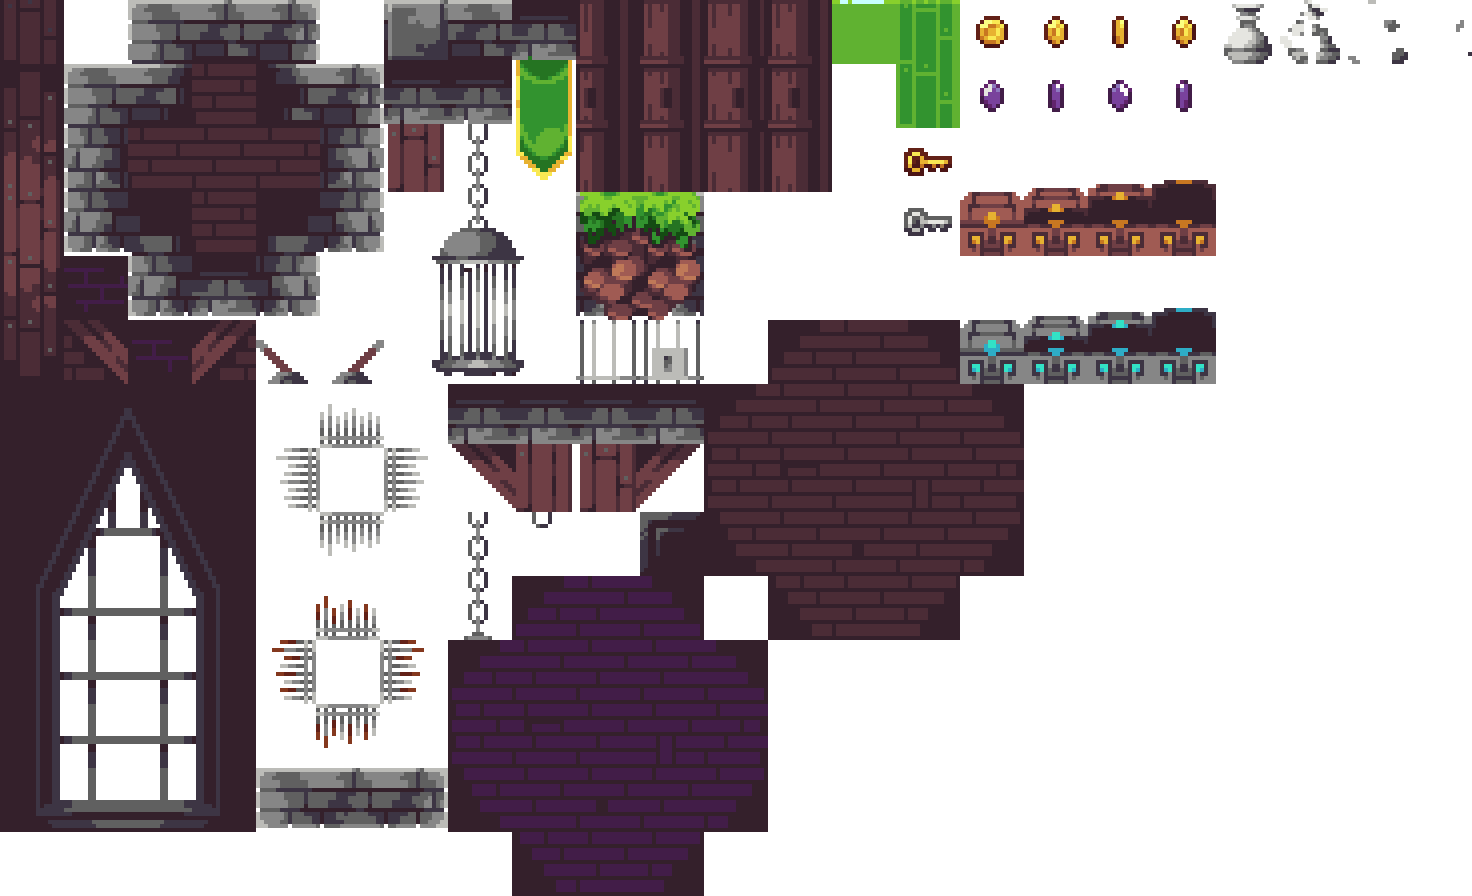
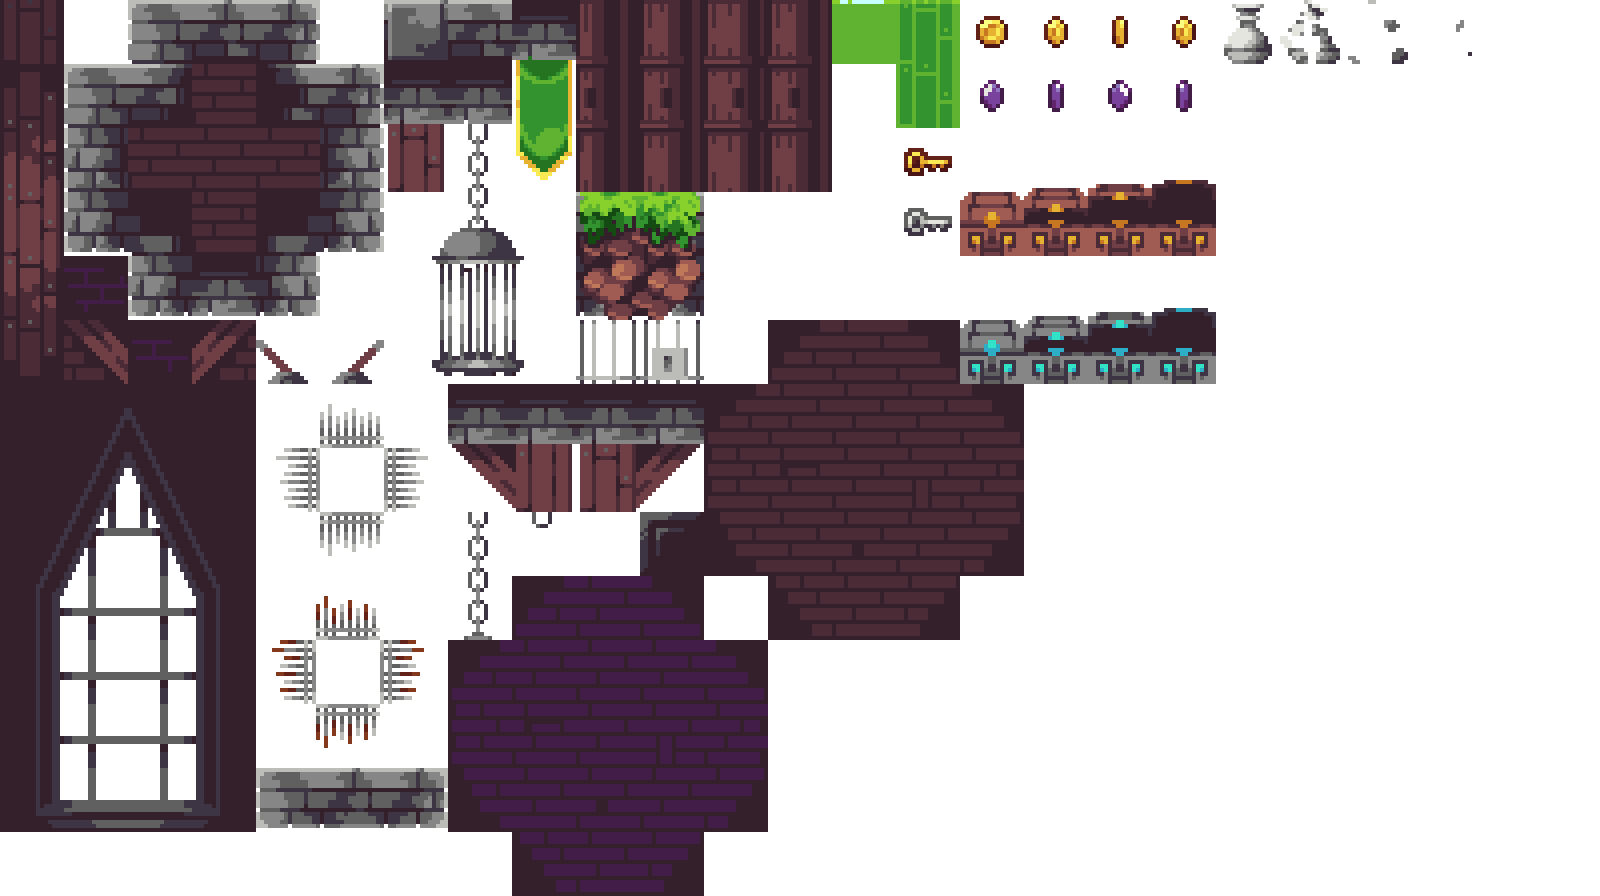
Added spritesheet to level editor Added basic scrolling Need to implement scrolling on level editor

Changed region(s): [[0.0, 0.0, 0.9062, 1.0], [0.5938, 0.3438, 0.8438, 0.7188]]

diff --git a/PythonFiles/level_editor.py b/PythonFiles/level_editor.py
@@ -1,6 +1,13 @@
 from level import *
 
 
+def draw_text(text, font, colour, surface, x, y):
+    text = font.render(text, 1, colour)
+    textrect = text.get_rect()
+    textrect.topleft = (x, y)
+    surface.blit(text, textrect)
+
+
 def hover_tile():  # when a grid tile is hovered it is highlighted
     mouse = pygame.mouse.get_pos()
     if mouse[0] < level_width and mouse[1] < level_height:
@@ -38,33 +45,36 @@ def write_to_file(x, y, selected):
         file.writelines(linelist)
     file.close()
 
-def draw_tile_list():  # draw the list of tile types
+
+def draw_tile_list(xstart, ystart, width):  # draw the list of tile types
+    listbackground = pygame.Rect(level_width, 0, screen_width-level_width, screen_height)
+    pygame.draw.rect(screen, (0, 100, 0), listbackground)
     tile_list = []
-    posx = level_width + tile_size * 2
-    posy = tile_size
+    posx = xstart
+    posy = ystart
     count = 0
-    for id in blockID:
-        img = pygame.transform.scale(pygame.image.load(blockID.get(id)), (tile_size, tile_size))
+    for id in sprites1_dict:
+        img = sprites1_dict[id]
         img_rect = img.get_rect()
         img_rect.x = posx
         img_rect.y = posy
         tile = (img, img_rect, id)
         tile_list.append(tile)
-        if count >= 3:
+        if count >= width:
             count = 0
-            posx = level_width + tile_size * 2
-            posy += tile_size * 2
+            posx = xstart
+            posy += tile_size
         else:
-            posx += tile_size * 2
+            posx += tile_size
             count += 1
     for tile in tile_list:
         screen.blit(tile[0], tile[1])
     return tile_list
 
 
-
 pygame.init()
-res = (1400, 900)
+res = (1750, 900)
+offset = 0
 screen = pygame.display.set_mode(res)
 screen_width = screen.get_width()
 screen_height = screen.get_height()
@@ -73,20 +83,24 @@ level_height = 800
 pygame.display.set_caption("Platform game editor")
 background = pygame.image.load("../Images/Backgrounds/background_forest.jpg")
 selected_block = None
-
 data = "../LevelTileMaps/level1a"
 running = True
+grid = False
 edit_level = Level(read_level_data(data))
 while running:
     click = False
     rclick = False
     mx, my = pygame.mouse.get_pos()
-    screen.fill((60, 25, 60))
+    screen.fill((0, 100, 0))
     screen.blit(background, (0, 0))
-    edit_level.draw()
-    draw_grid()
+    if grid:
+        draw_grid()
+    edit_level.draw(0)
+    t_list1 = draw_tile_list(level_width + tile_size, tile_size, 24)
     hover_tile()
-    t_list = draw_tile_list()
+    grid_button = pygame.Rect(tile_size, screen_height-30-button_height, button_width, button_height)
+    pygame.draw.rect(screen, (0, 70, 0), grid_button, border_radius=10)
+    left, middle, right = pygame.mouse.get_pressed(num_buttons=3)
 
     for event in pygame.event.get():
         if event.type == pygame.QUIT:
@@ -94,26 +108,43 @@ while running:
         if event.type == pygame.MOUSEBUTTONDOWN:
             if event.button == 1:
                 click = True
-            if event.button == 3:
-                rclick = True
+        if event.type == pygame.KEYDOWN:
+            if event.key == pygame.K_d:
+                offset += 1
+                print(offset)
+            if event.key == pygame.K_a:
+                if offset != 0:
+                    offset -= 1
+                print(offset)
+
+    if grid_button.collidepoint((mx, my)):  # toggle grid
+        pygame.draw.rect(screen, (0, 100, 0), grid_button, border_radius=10)
+        if click:
+            if grid:
+                grid = False
+            else:
+                grid = True
+    draw_text("Toggle grid", button_font, (255, 255, 255), screen, tile_size+button_height//2, screen_height-button_height-20)
 
     if selected_block is not None:  # shows selected block in tile list
+        draw_text("Selected block ID: "+str(selected_block[2]), button_font, (255, 255, 255), screen, screen_width-500,
+                  screen_height - button_height - 20)
         pygame.draw.rect(screen, (0, 255, 255), selected_block[1], width=2)
         if mx < level_width and my < level_height:
-            if click:
+            if left:
                 change_tile(mx, my, True, selected_block[2])
                 edit_level = Level(read_level_data(data))
-            if rclick:
+            if right:
                 change_tile(mx, my, False, selected_block[2])
                 edit_level = Level(read_level_data(data))
-    for tile in t_list:  # changes selected block in tile list when clicked
-        if tile[1].collidepoint((mx, my)):
-            pygame.draw.rect(screen, (0, 255, 0), tile[1], width=2)
+    for t in t_list1:  # changes selected block in tile list when clicked
+        if t[1].collidepoint((mx, my)):
+            pygame.draw.rect(screen, (0, 255, 0), t[1], width=2)
             if click:
-                selected_block = tile
-
-
+                selected_block = t
     pygame.display.update()
     clock.tick(60)
+
+
 
 pygame.quit()

diff --git a/PythonFiles/settings.py b/PythonFiles/settings.py
@@ -1,32 +1,5 @@
 import pygame
-
-
-pygame.init()
-title_font = pygame.font.SysFont("Calibri", 60)
-button_font = pygame.font.SysFont("Calibri", 20)
-res = (1200, 800)
-screen = pygame.display.set_mode(res)
-screen_width = screen.get_width()
-screen_height = screen.get_height()
-ui_width = screen_width
-ui_height = 120
-char_width = 60
-char_height = 80
-tile_size = 20
-animation_cooldown = 5
-button_width = 200
-button_height = 50
-blockID = {2: "../Images/Blocks/grass_block_mid.png", 3: "../Images/Blocks/grass_block_left.png",
-           4: "../Images/Blocks/grass_block_right.png", 5: "../Images/Blocks/dirt_block_midmid.png",
-           6: "../Images/Blocks/dirt_block_midleft.png", 7: "../Images/Blocks/dirt_block_midright.png",
-           8: "../Images/Blocks/dirt_block_botmid.png", 9: "../Images/Blocks/dirt_block_botleft.png",
-           10: "../Images/Blocks/dirt_block_botright.png", 11: "../Images/Blocks/stone_brick_topright.png",
-           12: "../Images/Blocks/stone_brick_midright.png", 13: "../Images/Blocks/stone_brick_botright.png"}
-pygame.display.set_caption("Platform game")
-icon = pygame.image.load("../Images/sword_icon.png")
-pygame.display.set_icon(icon)
-background = pygame.image.load("../Images/Backgrounds/background_forest.jpg")
-clock = pygame.time.Clock()
+from sprite_sheet import Spritesheet
 
 
 def load_animations(name, frames, action, slow):
@@ -64,3 +37,34 @@ def read_level_data(file):  # top 6 rows all 0
             data.append(ints)
     file.close()
     return data
+
+
+pygame.init()
+title_font = pygame.font.SysFont("Calibri", 60)
+button_font = pygame.font.SysFont("Calibri", 20)
+res = (1200, 800)
+screen = pygame.display.set_mode(res)
+screen_width = screen.get_width()
+screen_height = screen.get_height()
+ui_width = screen_width
+ui_height = 120
+char_width = 60
+char_height = 80
+tile_size = 20
+scroll_thresh = 500
+animation_cooldown = 5
+button_width = 200
+button_height = 50
+sprites1 = Spritesheet("../Images/Blocks/Dungeon_assets/Assets.png", tile_size, 64, 1600, 896)
+sprites1_dict = sprites1.create_sprite_dic(2)
+sprites2 = Spritesheet("../Images/Blocks/Outdoor_assets/Assets.png", tile_size, 16, 400, 400)
+sprites2_dict = sprites2.create_sprite_dic(627)
+sprites1_dict.update(sprites2_dict)
+pygame.display.set_caption("Platform game")
+icon = pygame.image.load("../Images/sword_icon.png")
+pygame.display.set_icon(icon)
+background = pygame.image.load("../Images/Backgrounds/background_forest.jpg")
+clock = pygame.time.Clock()
+
+
+

diff --git a/PythonFiles/player.py b/PythonFiles/player.py
@@ -26,7 +26,7 @@ class Player:
         self.sword_zone1 = self.rect.inflate(self.width // 3, self.height // 4)  # sword zone infront player
         self.sword_zone1.x = self.rect.x + self.width
         self.sword_zone1.y = self.rect.y - self.height // 4
-        self.sword_zone2 = pygame.Rect(0, 0, self.width, self.height*1//4)  # sword zone in player (temp)
+        self.sword_zone2 = pygame.Rect(0, 0, self.width, self.height * 1 // 4)  # sword zone in player (temp)
         self.sword_zone2.x = self.rect.x
         self.sword_zone2.y = self.rect.y - self.height // 4
         self.y_velocity = 0
@@ -38,6 +38,7 @@ class Player:
         self.attacking = False
         self.attack_first_style = True
         self.start = True
+        self.screen_scroll = 0
 
     def next_animation(self):
         if self.attacking:
@@ -94,7 +95,7 @@ class Player:
 
         if key[pygame.K_d]:
             dx += 5
-            if not(self.attacking and not self.look_right):
+            if not (self.attacking and not self.look_right):
                 self.look_right = True
                 self.sword_zone1.x = self.rect.x + self.width
             if not self.jumped and not self.attacking:
@@ -121,7 +122,7 @@ class Player:
         # gravity
         self.y_velocity += 1
         if self.y_velocity > 8:  # gravity strength
-            self.y_velocity = 8   # gravity strength
+            self.y_velocity = 8  # gravity strength
             self.falling = True
         dy += self.y_velocity
         # check collision
@@ -151,6 +152,15 @@ class Player:
         self.sword_zone2.x += dx
         self.sword_zone2.y += dy
 
+        if self.name == "Player":
+            if self.rect.right > screen_width - scroll_thresh or self.rect.left < scroll_thresh:
+                self.rect.x -= dx
+                self.sword_zone1.x -= dx
+                self.sword_zone2.x -= dx
+                self.screen_scroll = -dx
+            else:
+                self.screen_scroll = 0
+
         #  place image on screen
         if self.imageID[1]:
             if self.look_right:
@@ -162,8 +172,8 @@ class Player:
 
         self.hitbox_grid()
 
+
     def hitbox_grid(self):
         pygame.draw.rect(screen, (255, 255, 0), self.sword_zone1, 2)
         pygame.draw.rect(screen, (255, 255, 0), self.sword_zone2, 2)
         pygame.draw.rect(screen, (0, 255, 255), self.rect, 2)  # player hit box
-

diff --git a/PythonFiles/sprite_sheet.py b/PythonFiles/sprite_sheet.py
@@ -1,0 +1,54 @@
+import pygame
+
+
+class Spritesheet:
+    def __init__(self, filename, tile_size, imgtilesize, imgwidth, imgheight):
+        self.filename = filename
+        self.tile_size = tile_size
+        self.sprite_sheet = pygame.transform.scale(pygame.image.load(filename),
+                                                   ((imgwidth*tile_size)//imgtilesize, (imgheight*tile_size)//imgtilesize))
+        self.coors = self.sprite_sheet.get_rect().size
+        self.xsize = self.coors[0]//tile_size
+        self.ysize = self.coors[1]//tile_size
+
+    def get_sprite(self, x, y, w, h):
+        sprite = pygame.Surface((w, h), pygame.SRCALPHA, 32)
+        sprite = sprite.convert_alpha()
+        sprite.blit(self.sprite_sheet, (0, 0), (x, y, w, h))
+        return sprite
+
+    def create_sprite_dic(self, c):
+        sprites_dic = {}
+        counter = c
+        for y in range(self.ysize):
+            for x in range(self.xsize):
+                sprite = self.get_sprite(x*self.tile_size, y*self.tile_size, self.tile_size, self.tile_size)
+                sprites_dic[counter] = sprite
+                counter += 1
+        return sprites_dic
+
+
+
+
+
+"""pygame.init()
+title_font = pygame.font.SysFont("Calibri", 60)
+button_font = pygame.font.SysFont("Calibri", 20)
+res = (1200, 800)
+tile_size = 20
+screen = pygame.display.set_mode(res)
+screen_width = screen.get_width()
+screen_height = screen.get_height()
+running = True
+sprites = Spritesheet("../Images/Blocks/Dungeon_assets/Assets.png", 20)
+xcor, ycor = sprites.sprite_sheet.get_rect().size
+sprite1 = sprites.get_sprite(0, 0, 20, 20)  # xcor, ycor, tilesizex, tilesizey
+dict = sprites.create_sprite_dic()
+while running:
+    screen.fill((0, 60, 0))
+    for event in pygame.event.get():
+        if event.type == pygame.QUIT:
+            running = False
+    sprites.blit_tiles(dict, screen)
+    pygame.display.update()
+pygame.quit()"""

diff --git a/PythonFiles/level.py b/PythonFiles/level.py
@@ -4,12 +4,13 @@ from settings import *
 class Level:
     def __init__(self, data):
         self.tile_list = []
+        self.collide_tile_list = []
         row_count = 0
         for row in data:
             column_count = 0
             for tile in row:
-                if tile != 0:
-                    img = pygame.transform.scale(pygame.image.load(blockID.get(tile)), (tile_size, tile_size))
+                if tile not in [0, 1]:
+                    img = sprites1_dict[tile]
                     img_rect = img.get_rect()
                     img_rect.x = column_count * tile_size
                     img_rect.y = row_count * tile_size
@@ -18,6 +19,8 @@ class Level:
                 column_count += 1
             row_count += 1
 
-    def draw(self):
+    def draw(self, screen_scroll):
+
         for tile in self.tile_list:
+            tile[1][0] += screen_scroll
             screen.blit(tile[0], tile[1])

diff --git a/PythonFiles/main.py b/PythonFiles/main.py
@@ -61,10 +61,10 @@ def run_game():
     playing = True
     level1a = Level(read_level_data("../LevelTileMaps/level1a"))
     current_level = level1a
-    player = Player(60, 60, current_level)
+    player = Player(600, 300, current_level)
     while playing:
         screen.blit(background, (0, 0))
-        current_level.draw()
+        current_level.draw(player.screen_scroll)
         #draw_grid()
         player.update()
         for event in pygame.event.get():
@@ -83,6 +83,6 @@ def run_game():
         clock.tick(60)
 
 
-main_menu()
-#run_game()
+#main_menu()
+run_game()
 pygame.quit()

diff --git a/PythonFiles/create_level_frame.py b/PythonFiles/create_level_frame.py
@@ -1,0 +1,11 @@
+
+def add_zeros(file, blockwidth, blockheight):
+    with open(file, "w") as file:
+        for _ in range(blockheight):
+            for _ in range(blockwidth - 1):
+                file.write("0,")
+            file.write("0\n")
+    file.close()
+
+
+#add_zeros("../LevelTileMaps/empty_level",  120, 40)
